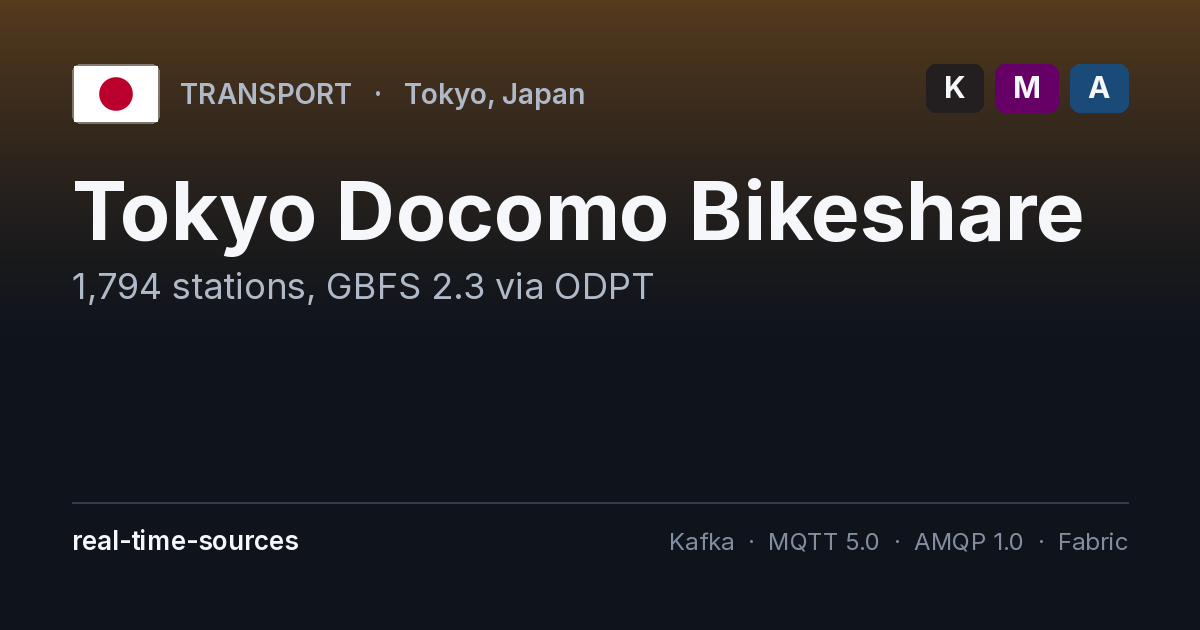
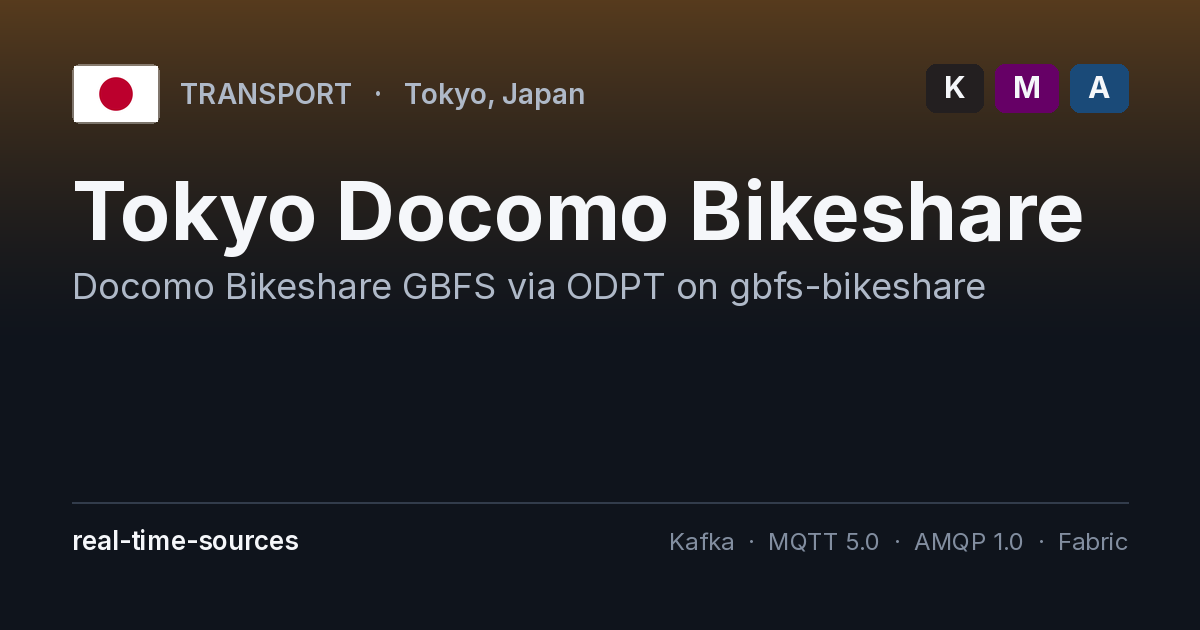
Sync catalog and share pages from main

Changed region(s): [[0.0617, 0.4222, 0.8325, 0.4825]]

diff --git a/share/kiwis/index.html b/share/kiwis/index.html
@@ -3,45 +3,45 @@
 <head>
 <meta charset="UTF-8">
 <meta name="viewport" content="width=device-width, initial-scale=1.0">
-<title>Tokyo Docomo Bikeshare — real-time-sources</title>
-<meta name="description" content="Transport — Tokyo, Japan — Docomo Bikeshare GBFS via ODPT on gbfs-bikeshare">
+<title>KiWIS — real-time-sources</title>
+<meta name="description" content="Hydrology — Global — configurable KISTERS KiWIS hydrology endpoints">
 
 <!-- Canonical points at the SPA route, not this redirect shell. -->
-<link rel="canonical" href="https://clemensv.github.io/real-time-sources/#tokyo-docomo-bikeshare">
+<link rel="canonical" href="https://clemensv.github.io/real-time-sources/#kiwis">
 
 <!-- Open Graph -->
 <meta property="og:type" content="website">
 <meta property="og:site_name" content="real-time-sources">
-<meta property="og:title" content="Tokyo Docomo Bikeshare">
-<meta property="og:description" content="Transport — Tokyo, Japan — Docomo Bikeshare GBFS via ODPT on gbfs-bikeshare">
-<meta property="og:url" content="https://clemensv.github.io/real-time-sources/share/tokyo-docomo-bikeshare/">
-<meta property="og:image" content="https://clemensv.github.io/real-time-sources/share/tokyo-docomo-bikeshare/og.png">
-<meta property="og:image:secure_url" content="https://clemensv.github.io/real-time-sources/share/tokyo-docomo-bikeshare/og.png">
+<meta property="og:title" content="KiWIS">
+<meta property="og:description" content="Hydrology — Global — configurable KISTERS KiWIS hydrology endpoints">
+<meta property="og:url" content="https://clemensv.github.io/real-time-sources/share/kiwis/">
+<meta property="og:image" content="https://clemensv.github.io/real-time-sources/share/kiwis/og.png">
+<meta property="og:image:secure_url" content="https://clemensv.github.io/real-time-sources/share/kiwis/og.png">
 <meta property="og:image:type" content="image/png">
 <meta property="og:image:width" content="1200">
 <meta property="og:image:height" content="630">
-<meta property="og:image:alt" content="Tokyo Docomo Bikeshare — Transport — Tokyo, Japan — Docomo Bikeshare GBFS via ODPT on gbfs-bikeshare">
+<meta property="og:image:alt" content="KiWIS — Hydrology — Global — configurable KISTERS KiWIS hydrology endpoints">
 <meta property="og:locale" content="en_US">
 
 <!-- Twitter / X Card -->
 <meta name="twitter:card" content="summary_large_image">
-<meta name="twitter:title" content="Tokyo Docomo Bikeshare">
-<meta name="twitter:description" content="Transport — Tokyo, Japan — Docomo Bikeshare GBFS via ODPT on gbfs-bikeshare">
-<meta name="twitter:image" content="https://clemensv.github.io/real-time-sources/share/tokyo-docomo-bikeshare/og.png">
-<meta name="twitter:image:alt" content="Tokyo Docomo Bikeshare — Transport — Tokyo, Japan — Docomo Bikeshare GBFS via ODPT on gbfs-bikeshare">
+<meta name="twitter:title" content="KiWIS">
+<meta name="twitter:description" content="Hydrology — Global — configurable KISTERS KiWIS hydrology endpoints">
+<meta name="twitter:image" content="https://clemensv.github.io/real-time-sources/share/kiwis/og.png">
+<meta name="twitter:image:alt" content="KiWIS — Hydrology — Global — configurable KISTERS KiWIS hydrology endpoints">
 
 <!-- JSON-LD: Dataset descriptor for search engines -->
 <script type="application/ld+json">
 {
   "@context": "https://schema.org",
   "@type": "Dataset",
-  "name": "Tokyo Docomo Bikeshare",
-  "description": "Transport — Tokyo, Japan — Docomo Bikeshare GBFS via ODPT on gbfs-bikeshare",
-  "url": "https://clemensv.github.io/real-time-sources/#tokyo-docomo-bikeshare",
-  "image": "https://clemensv.github.io/real-time-sources/share/tokyo-docomo-bikeshare/og.png",
+  "name": "KiWIS",
+  "description": "Hydrology — Global — configurable KISTERS KiWIS hydrology endpoints",
+  "url": "https://clemensv.github.io/real-time-sources/#kiwis",
+  "image": "https://clemensv.github.io/real-time-sources/share/kiwis/og.png",
   "isAccessibleForFree": true,
   "license": "https://www.apache.org/licenses/LICENSE-2.0",
-  "keywords": "Apache Kafka, real-time data, MQTT 5.0, AMQP 1.0, Microsoft Fabric, Transport",
+  "keywords": "Apache Kafka, real-time data, MQTT 5.0, AMQP 1.0, Microsoft Fabric, Hydrology",
   "creator": {
     "@type": "Organization",
     "name": "real-time-sources",
@@ -55,7 +55,7 @@
 
 <!-- Crawler-friendly redirect: humans get an immediate refresh + JS hop.
      Crawlers ignore the refresh and just consume the OG meta above. -->
-<meta http-equiv="refresh" content="0; url=https://clemensv.github.io/real-time-sources/#tokyo-docomo-bikeshare">
+<meta http-equiv="refresh" content="0; url=https://clemensv.github.io/real-time-sources/#kiwis">
 
 <style>
   :root { color-scheme: light dark; }
@@ -85,15 +85,15 @@
 </head>
 <body>
 <main class="card">
-  <img class="preview" src="og.png" alt="Tokyo Docomo Bikeshare — Transport — Tokyo, Japan — Docomo Bikeshare GBFS via ODPT on gbfs-bikeshare" width="1200" height="630">
-  <h1>Tokyo Docomo Bikeshare</h1>
-  <p>Transport — Tokyo, Japan — Docomo Bikeshare GBFS via ODPT on gbfs-bikeshare</p>
-  <a class="cta" href="https://clemensv.github.io/real-time-sources/#tokyo-docomo-bikeshare">Open in real-time-sources&nbsp;→</a>
+  <img class="preview" src="og.png" alt="KiWIS — Hydrology — Global — configurable KISTERS KiWIS hydrology endpoints" width="1200" height="630">
+  <h1>KiWIS</h1>
+  <p>Hydrology — Global — configurable KISTERS KiWIS hydrology endpoints</p>
+  <a class="cta" href="https://clemensv.github.io/real-time-sources/#kiwis">Open in real-time-sources&nbsp;→</a>
   <p class="meta">Redirecting&hellip; if nothing happens, click the button above.</p>
 </main>
 <script>
   // Replace this URL in history so back-button goes to wherever the user came from.
-  location.replace("https://clemensv.github.io/real-time-sources/#tokyo-docomo-bikeshare");
+  location.replace("https://clemensv.github.io/real-time-sources/#kiwis");
 </script>
 </body>
 </html>

diff --git a/share/uk-bods-siri/index.html b/share/uk-bods-siri/index.html
@@ -4,7 +4,7 @@
 <meta charset="UTF-8">
 <meta name="viewport" content="width=device-width, initial-scale=1.0">
 <title>UK BODS SIRI — real-time-sources</title>
-<meta name="description" content="Transport — England — 28,000+ buses, BODS AVL (requires free API key)">
+<meta name="description" content="Transport — England — BODS SIRI-VM via generalized siri feeder (requires free API key)">
 
 <!-- Canonical points at the SPA route, not this redirect shell. -->
 <link rel="canonical" href="https://clemensv.github.io/real-time-sources/#uk-bods-siri">
@@ -13,22 +13,22 @@
 <meta property="og:type" content="website">
 <meta property="og:site_name" content="real-time-sources">
 <meta property="og:title" content="UK BODS SIRI">
-<meta property="og:description" content="Transport — England — 28,000+ buses, BODS AVL (requires free API key)">
+<meta property="og:description" content="Transport — England — BODS SIRI-VM via generalized siri feeder (requires free API key)">
 <meta property="og:url" content="https://clemensv.github.io/real-time-sources/share/uk-bods-siri/">
 <meta property="og:image" content="https://clemensv.github.io/real-time-sources/share/uk-bods-siri/og.png">
 <meta property="og:image:secure_url" content="https://clemensv.github.io/real-time-sources/share/uk-bods-siri/og.png">
 <meta property="og:image:type" content="image/png">
 <meta property="og:image:width" content="1200">
 <meta property="og:image:height" content="630">
-<meta property="og:image:alt" content="UK BODS SIRI — Transport — England — 28,000+ buses, BODS AVL (requires free API key)">
+<meta property="og:image:alt" content="UK BODS SIRI — Transport — England — BODS SIRI-VM via generalized siri feeder (requires free API key)">
 <meta property="og:locale" content="en_US">
 
 <!-- Twitter / X Card -->
 <meta name="twitter:card" content="summary_large_image">
 <meta name="twitter:title" content="UK BODS SIRI">
-<meta name="twitter:description" content="Transport — England — 28,000+ buses, BODS AVL (requires free API key)">
+<meta name="twitter:description" content="Transport — England — BODS SIRI-VM via generalized siri feeder (requires free API key)">
 <meta name="twitter:image" content="https://clemensv.github.io/real-time-sources/share/uk-bods-siri/og.png">
-<meta name="twitter:image:alt" content="UK BODS SIRI — Transport — England — 28,000+ buses, BODS AVL (requires free API key)">
+<meta name="twitter:image:alt" content="UK BODS SIRI — Transport — England — BODS SIRI-VM via generalized siri feeder (requires free API key)">
 
 <!-- JSON-LD: Dataset descriptor for search engines -->
 <script type="application/ld+json">
@@ -36,7 +36,7 @@
   "@context": "https://schema.org",
   "@type": "Dataset",
   "name": "UK BODS SIRI",
-  "description": "Transport — England — 28,000+ buses, BODS AVL (requires free API key)",
+  "description": "Transport — England — BODS SIRI-VM via generalized siri feeder (requires free API key)",
   "url": "https://clemensv.github.io/real-time-sources/#uk-bods-siri",
   "image": "https://clemensv.github.io/real-time-sources/share/uk-bods-siri/og.png",
   "isAccessibleForFree": true,
@@ -85,9 +85,9 @@
 </head>
 <body>
 <main class="card">
-  <img class="preview" src="og.png" alt="UK BODS SIRI — Transport — England — 28,000+ buses, BODS AVL (requires free API key)" width="1200" height="630">
+  <img class="preview" src="og.png" alt="UK BODS SIRI — Transport — England — BODS SIRI-VM via generalized siri feeder (requires free API key)" width="1200" height="630">
   <h1>UK BODS SIRI</h1>
-  <p>Transport — England — 28,000+ buses, BODS AVL (requires free API key)</p>
+  <p>Transport — England — BODS SIRI-VM via generalized siri feeder (requires free API key)</p>
   <a class="cta" href="https://clemensv.github.io/real-time-sources/#uk-bods-siri">Open in real-time-sources&nbsp;→</a>
   <p class="meta">Redirecting&hellip; if nothing happens, click the button above.</p>
 </main>

diff --git a/share/index.html b/share/index.html
@@ -12,7 +12,7 @@
 </style></head>
 <body>
 <h1>Per-source share landing pages</h1>
-<p class="head">111 sources. Each URL is the canonical share target for
+<p class="head">112 sources. Each URL is the canonical share target for
   cards on X, LinkedIn, Slack, Discord, FB, Mastodon, Bluesky and Teams. Humans
   are redirected to <code>https://clemensv.github.io/real-time-sources/#&lt;source-id&gt;</code>.</p>
 <ul>
@@ -74,6 +74,7 @@
 <li><a href="jma-bosai-warning/">JMA Bosai Warning &amp; Tsunami</a> — <span style="color:#8590a0">Japan — per-prefecture weather warnings + tsunami alerts</span></li>
 <li><a href="jma-japan/">JMA Japan</a> — <span style="color:#8590a0">Japan — weather bulletins, warnings, forecasts</span></li>
 <li><a href="king-county-marine/">King County Marine</a> — <span style="color:#8590a0">Washington State / Puget Sound — buoy and mooring telemetry</span></li>
+<li><a href="kiwis/">KiWIS</a> — <span style="color:#8590a0">Global — configurable KISTERS KiWIS hydrology endpoints</span></li>
 <li><a href="kmi-belgium/">KMI Belgium</a> — <span style="color:#8590a0">Belgium — ~14 AWS stations, 10-min observations</span></li>
 <li><a href="kystverket-ais/">Kystverket AIS</a> — <span style="color:#8590a0">Norway / Svalbard — raw TCP AIS, ~34 msg/s</span></li>
 <li><a href="laqn-london/">LAQN London</a> — <span style="color:#8590a0">London, UK — site metadata, species, hourly measurements</span></li>
@@ -112,9 +113,9 @@
 <li><a href="tepco-denkiyoho/">TEPCO Denkiyoho</a> — <span style="color:#8590a0">Japan / Kanto — TEPCO electricity supply, hourly forecast, 5-min actuals + solar</span></li>
 <li><a href="tfl-road-traffic/">TfL Road Traffic</a> — <span style="color:#8590a0">London, UK — road corridor status and disruptions</span></li>
 <li><a href="ticketmaster/">Ticketmaster</a> — <span style="color:#8590a0">Global — concerts, sports, theater, arts via Discovery API</span></li>
-<li><a href="tokyo-docomo-bikeshare/">Tokyo Docomo Bikeshare</a> — <span style="color:#8590a0">Tokyo, Japan — 1,794 stations, GBFS 2.3 via ODPT</span></li>
+<li><a href="tokyo-docomo-bikeshare/">Tokyo Docomo Bikeshare</a> — <span style="color:#8590a0">Tokyo, Japan — Docomo Bikeshare GBFS via ODPT on gbfs-bikeshare</span></li>
 <li><a href="uba-airdata/">UBA AirData</a> — <span style="color:#8590a0">Germany — stations, pollutant components, hourly measures</span></li>
-<li><a href="uk-bods-siri/">UK BODS SIRI</a> — <span style="color:#8590a0">England — 28,000+ buses, BODS AVL (requires free API key)</span></li>
+<li><a href="uk-bods-siri/">UK BODS SIRI</a> — <span style="color:#8590a0">England — BODS SIRI-VM via generalized siri feeder (requires free API key)</span></li>
 <li><a href="uk-ea-flood-monitoring/">UK EA Flood Monitoring</a> — <span style="color:#8590a0">England — ~4,000 stations</span></li>
 <li><a href="usgs-earthquakes/">USGS Earthquakes</a> — <span style="color:#8590a0">Global — seismic events</span></li>
 <li><a href="usgs-geomag/">USGS Geomagnetism</a> — <span style="color:#8590a0">United States — 14 observatories, 1-min geomagnetic field</span></li>

diff --git a/app.js b/app.js
@@ -18,6 +18,7 @@ const SOURCES = [
   { id: "hubeau-hydrometrie", name: "Hub'Eau Hydrometrie", cat: "Hydrology", key: false, desc: "France — ~6,300 stations", notebook: true, mqtt: true, amqp: true },
   { id: "imgw-hydro", name: "IMGW Hydro", cat: "Hydrology", key: false, desc: "Poland — IMGW-PIB", notebook: true, mqtt: true, amqp: true },
   { id: "ireland-opw-waterlevel", name: "Ireland OPW Water Level", cat: "Hydrology", key: false, desc: "Ireland — ~500 OPW hydrometric stations", notebook: true, mqtt: true, amqp: true },
+  { id: "kiwis", name: "KiWIS", cat: "Hydrology", key: false, desc: "Global — configurable KISTERS KiWIS hydrology endpoints", notebook: true, mqtt: true, amqp: true },
   { id: "king-county-marine", name: "King County Marine", cat: "Hydrology", key: false, desc: "Washington State / Puget Sound — buoy and mooring telemetry", notebook: true, mqtt: true, amqp: true, mqttBasic: false, mqttEg: false },
   { id: "nepal-bipad-hydrology", name: "Nepal BIPAD Hydrology", cat: "Hydrology", key: false, desc: "Nepal — Himalayan river basins, BIPAD", notebook: true, mqtt: true, amqp: true },
   { id: "noaa-ndbc", name: "NOAA NDBC", cat: "Hydrology", key: false, desc: "United States — buoy observations", notebook: true, mqtt: true, amqp: true },
@@ -577,6 +578,7 @@ function renderWelcome() {
 
   // A few curated quick-starts (all key-free unless noted)
   const quickStarts = [
+    { id: "kiwis", note: "Global — configurable KISTERS KiWIS hydrology endpoints. Kafka + MQTT + AMQP with station and timeseries reference data.", mqtt: true, amqp: true },
     { id: "pegelonline", note: "Germany — 3,000 river gauges, every 15 min. Reference implementation for Kafka + MQTT + AMQP transport variants.", mqtt: true, amqp: true },
     { id: "aisstream",   note: "Global — live AIS vessel positions via WebSocket. Free API key, registers in seconds.", mqtt: true, amqp: true },
     { id: "bluesky",     note: "Global — the Bluesky firehose, normalized to CloudEvents.", mqtt: true, amqp: true },
